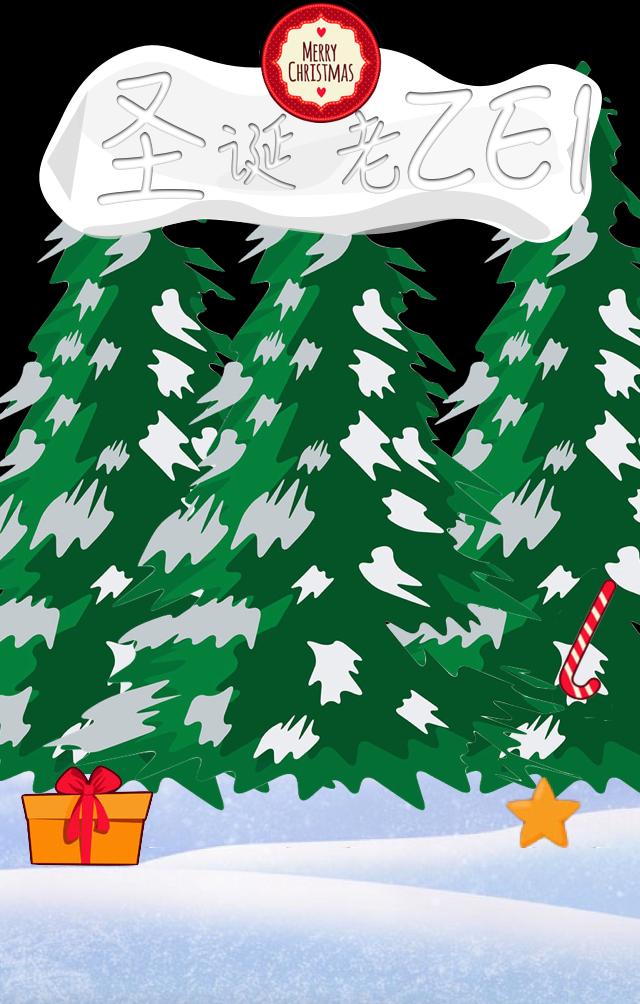
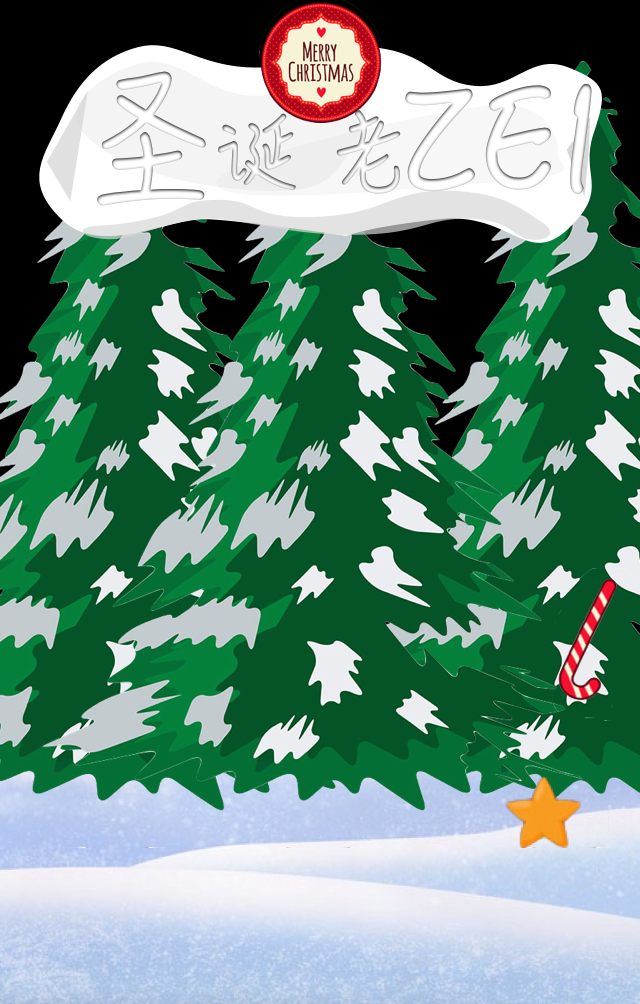
make open

Changed region(s): [[0.0312, 0.741, 0.25, 0.8645]]

diff --git a/public/js/hitRunMan/start.js b/public/js/hitRunMan/start.js
@@ -7,15 +7,32 @@ module.exports = function(render){
   var ready = require('./../loader');
   ready(R,function (com) {
     var startStage = new PIXI.Container();
+    startStage.customTimer = 0
     var sprite = require('../sprite');
     var background = sprite.getIm({
       img: R.startBackground,
       'position.set': [320, 0],
       'anchor.set': [0.5, 0],
     });
+    var gift = require('./sprites/gift');
+    gift.down()
+    var snowmanhand = require('./sprites/snowmanhand')
     var startSnowMan = require('./sprites/startSnowMan')
     startStage.addChild(background)
     startStage.addChild(startSnowMan)
+    startStage.addChild(snowmanhand)
+    startStage.addChild(gift)
+    startStage.render = function() {
+      if (startStage.customTimer <= 300) {
+        startStage.customTimer ++
+      } else if(snowmanhand.status == 0) {
+        snowmanhand.handdown()
+      }
+      if(snowmanhand.status == 2) {
+        snowmanhand.handup()
+        gift.up()
+      }
+    }
     render(startStage);
   })
 }

diff --git a/public/js/hitRunMan/sprites/snowmanhand.js b/public/js/hitRunMan/sprites/snowmanhand.js
@@ -1,0 +1,43 @@
+/**
+ * Created by guoshencheng on 12/24/15.
+ */
+var sprite = require('../../sprite')
+var R = require('../resource')
+
+var snowmanhand = sprite.getIm({
+  img: R.snowmanhand,
+  'anchor.set':[1, 1],
+  'position.set': [250,700],
+  'scale.x': 1,
+  'scale.y': 1,
+  'rotation':0,
+})
+
+snowmanhand.status = 0
+
+snowmanhand.handdown = function() {
+  snowmanhand.status = 1
+}
+
+snowmanhand.handup = function() {
+  snowmanhand.status = 3
+}
+
+snowmanhand.render = function() {
+  if(snowmanhand.status == 1) {
+    console.log(snowmanhand.rotation)
+    snowmanhand.rotation -= 0.01
+    if(snowmanhand.rotation <= -1.5) {
+      snowmanhand.rotation = -1.5
+      snowmanhand.status = 2
+    }
+  } else if (snowmanhand.status == 3) {
+    snowmanhand.rotation += 0.01
+    if (snowmanhand.rotation >= 0) {
+      snowmanhand.rotation = 0
+      snowmanhand.status = 4
+    }
+  }
+}
+
+module.exports = snowmanhand

diff --git a/public/js/hitRunMan/resource.js b/public/js/hitRunMan/resource.js
@@ -19,7 +19,9 @@ var localResource = {
   start_snowman:'/images/hitRunMan/start_snowman/start_snowman.json',
   startTitle:'/images/hitRunMan/startTitle.png',
   christmasTree:'/images/hitRunMan/christmasTree/christmasTree.png',
-  startBackground:'/images/hitRunMan/startBackground/startBackground.png'
+  startBackground:'/images/hitRunMan/startBackground/startBackground.png',
+  gift:'/images/hitRunMan/gift/gift.json',
+  snowmanhand:'/images/hitRunMan/snowmanhand/snowmanhand.png'
 };
 
 //有next则加载next里的内容。
@@ -42,6 +44,8 @@ Object.defineProperty(localResource,'next',{
     startTitle:localResource.startTitle,
     christmasTree:localResource.christmasTree,
     startBackground:localResource.startBackground,
+    gift:localResource.gift,
+    snowmanhand:localResource.snowmanhand
   },{
     flyFist:localResource.flyFist,
   }]

diff --git a/public/js/hitRunMan/sprites/gift.js b/public/js/hitRunMan/sprites/gift.js
@@ -1,0 +1,40 @@
+/**
+ * Created by guoshencheng on 12/24/15.
+ */
+
+
+var sprite = require('./../../sprite');
+var R = require('../resource');
+
+var gift = sprite.getMc({
+  maxFrame:2,
+  preFix:'gift',
+  'position.set':[46,800],
+  'scale.x': 1,
+  'scale.y': 1,
+  'anchor.set': [0, 0]
+});
+
+gift.status = 0
+
+gift.up = function() {
+  gift.gotoAndStop(1)
+  gift.status = 1
+}
+
+gift.down = function() {
+  gift.gotoAndStop(2)
+}
+
+gift.render = function() {
+  if(gift.status == 1) {
+    gift.y -=2
+    var a = (gift.y - 650) * 0.04
+    gift.x = 10 + a * a
+    if(gift.y < 500) {
+      gift.status = 2
+    }
+  }
+}
+
+module.exports = gift

diff --git a/public/js/hitRunMan/sprites/startSnowMan.js b/public/js/hitRunMan/sprites/startSnowMan.js
@@ -6,9 +6,9 @@ var sprite = require('../../sprite');
 var startSnowMan = sprite.getMc({
   maxFrame:5,
   preFix:'start_snowman',
-  'position.set':[320,600],
+  'position.set':[400,600],
   'anchor.set':[0.5,0.5],
-  'scale.set':[0.8,0.8],
+  'scale.set':[1,1],
   'animationSpeed':0.08
 });
 startSnowMan.play();

diff --git a/public/js/hitRunMan/main.js b/public/js/hitRunMan/main.js
@@ -20,7 +20,9 @@ document.body.appendChild(renderer.view);
 var render = function(stage){
 
     function animate() {
-
+        if(stage.render) {
+          stage.render()
+        }
         stage.children.forEach((function(child){
             if(child.render){
                 child.render();

diff --git a/public/js/hitRunMan/sprites/house.js b/public/js/hitRunMan/sprites/house.js
@@ -12,7 +12,6 @@ var houseGenerator = function(random) {
     'position.set': [100,100],
     'scale.x': 1,
     'scale.y': 1
-
   });
   house.progress = 0;
   house.render = function () {
